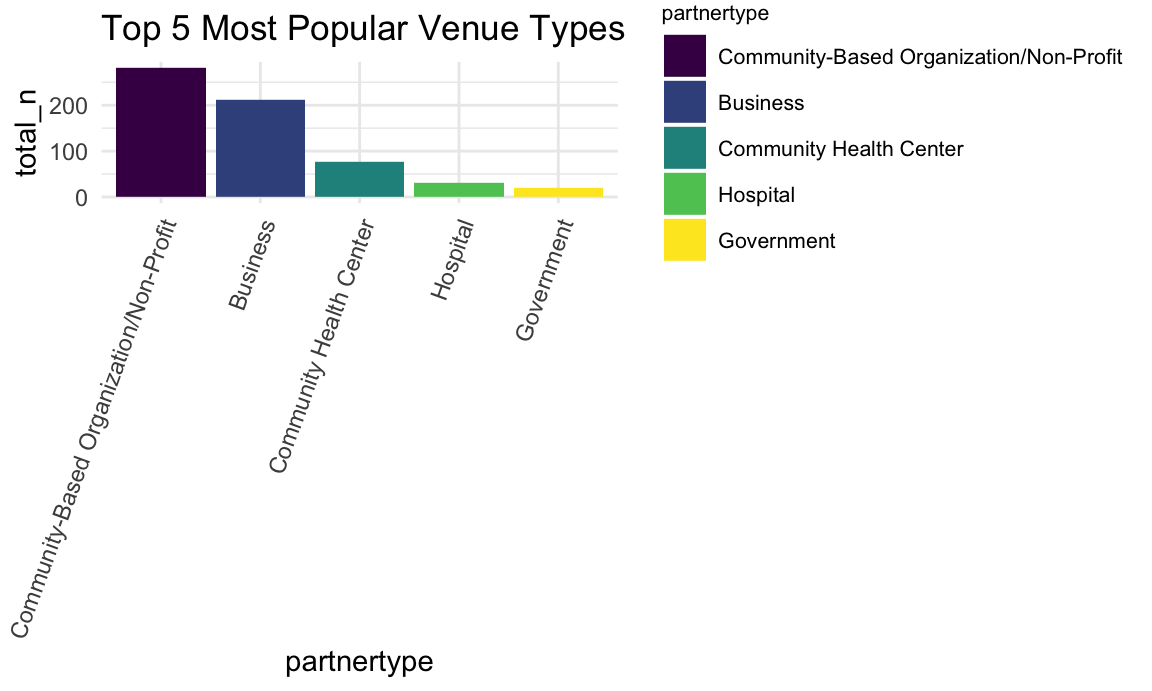
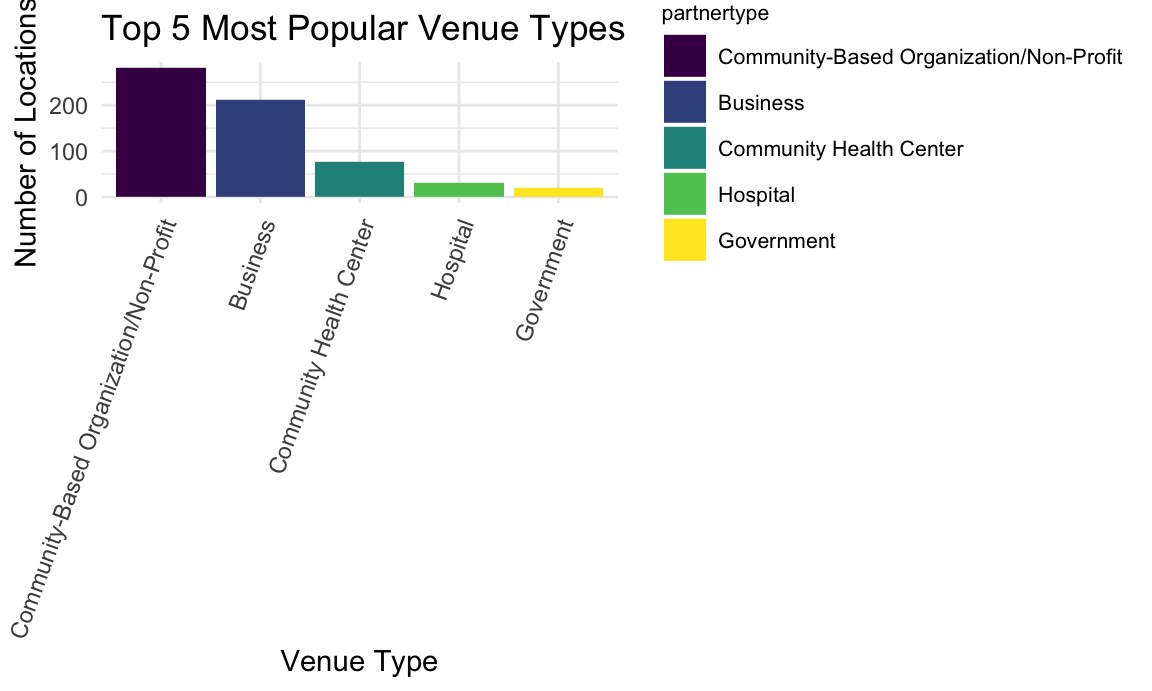
popular venue edits

Changed region(s): [[0.0, 0.0, 0.0312, 0.3951], [0.25, 0.9421, 0.375, 0.9725]]

diff --git a/popular_venues.html b/popular_venues.html
@@ -450,7 +450,9 @@ pop_venue %&gt;%
   theme(axis.text.x = element_text(angle = 70, hjust = 1),
         legend.title = element_text(size = 8),
         legend.text = element_text(size = 8)) +
-  labs(title = &quot;Top 5 Most Popular Venue Types&quot;)</code></pre>
+  labs(title = &quot;Top 5 Most Popular Venue Types&quot;,
+       x = &quot;Venue Type&quot;,
+       y = &quot;Number of Locations&quot;)</code></pre>
 <p><img src="popular_venues_files/figure-html/unnamed-chunk-3-1.png" width="90%" /></p>
 <p>Visually, we can see that there are many more Community-Based Organization/Non-Profit and Business venues that distribute condoms than any other venue type.</p>
 </div>
@@ -524,14 +526,16 @@ pop_subtype %&gt;%
   ggplot(aes(x = partner_subtype, y = total_n, fill = partner_subtype)) +
   geom_bar(stat = &quot;identity&quot;) +
   theme(axis.text.x = element_text(angle = 70, hjust = 1)) +
-  labs(title = &quot;Most Popular Venue Subtypes&quot;)</code></pre>
+  labs(title = &quot;Most Popular Venue Subtypes&quot;,
+       x = &quot;Venue Type&quot;,
+       y = &quot;Number of Locations&quot;)</code></pre>
 <p><img src="popular_venues_files/figure-html/unnamed-chunk-5-1.png" width="90%" /></p>
 <p>Visually, we can see that there are many more Bar/Lounge venues that distribute condoms than any other subtype of venue.</p>
 </div>
-<div id="top-venues-subtypes" class="section level2">
-<h2>Top Venues &amp; Subtypes</h2>
-<div id="community-based-organizationnon-profit" class="section level4">
-<h4><strong>Community-Based Organization/Non-Profit</strong></h4>
+<div id="top-venues-and-their-subtypes" class="section level2">
+<h2>Top Venues and their Subtypes</h2>
+<div id="community-based-organizationnon-profit" class="section level3">
+<h3>Community-Based Organization/Non-Profit</h3>
 <pre class="r"><code>cleaned_data %&gt;% 
   filter(partnertype == &quot;Community-Based Organization/Non-Profit&quot;) %&gt;% 
   group_by(partnertype, partner_subtype) %&gt;% 
@@ -546,13 +550,13 @@ pop_subtype %&gt;%
   geom_bar(stat = &quot;identity&quot;,  position = &quot;dodge&quot;) +
   labs(
     x = &quot;Venue Type&quot;,
-    y = &quot;# of Venues&quot;) + 
-  ggtitle(&quot;Distibutions of partner subtypes for CBO/Non-profits&quot;)</code></pre>
+    y = &quot;Number of Locations&quot;) + 
+  ggtitle(&quot;Number of Partner Subtypes for CBO/Non-profits&quot;)</code></pre>
 <p><img src="popular_venues_files/figure-html/unnamed-chunk-6-1.png" width="90%" /></p>
-<p>The top five community-based organizations/non-profits that offers free safer sex products are: others, social services, community centers, education, and housing.</p>
+<p>The top five Community-Based Organizations/Non-Profits that offer free safer sex products are Other, Social Service, Community Center, Education, and Housing locations.</p>
 </div>
-<div id="business" class="section level4">
-<h4><strong>Business</strong></h4>
+<div id="business" class="section level3">
+<h3>Business</h3>
 <pre class="r"><code>cleaned_data %&gt;% 
   filter(partnertype == &quot;Business&quot;) %&gt;%
   group_by(partnertype, partner_subtype) %&gt;% 
@@ -567,13 +571,13 @@ pop_subtype %&gt;%
   geom_bar(stat = &quot;identity&quot;,  position = &quot;dodge&quot;) +
   labs(
     x = &quot;Venue Type&quot;,
-    y = &quot;# of Venues&quot;) + 
-  ggtitle(&quot;Distibutions of partner subtypes for Businesses&quot;)</code></pre>
+    y = &quot;Number of Locations&quot;) + 
+  ggtitle(&quot;Number of Partner Subtypes for Businesses&quot;)</code></pre>
 <p><img src="popular_venues_files/figure-html/unnamed-chunk-7-1.png" width="90%" /></p>
-<p>The top 5 businesses that offers free safer sex products are bar/lounge, barbershop, beauty salons, night club, and retail stores.</p>
+<p>The top 5 Businesses that offer free safer sex products are Bar/Lounge, Barbershop, Beauty Salon, Night Club, and Retail Store locations.</p>
 </div>
-<div id="community-health-centers" class="section level4">
-<h4><strong>Community Health Centers</strong></h4>
+<div id="community-health-centers" class="section level3">
+<h3>Community Health Centers</h3>
 <pre class="r"><code>cleaned_data %&gt;% 
   filter(partnertype == &quot;Community Health Center&quot;) %&gt;% 
   group_by(partnertype, partner_subtype) %&gt;% 
@@ -586,10 +590,10 @@ pop_subtype %&gt;%
   geom_bar(stat = &quot;identity&quot;,  position = &quot;dodge&quot;) +
   labs(
     x = &quot;Venue Type&quot;,
-    y = &quot;# of Venues&quot;) + 
-  ggtitle(&quot;Distibutions of partner subtypes for Community Health Centers&quot;)</code></pre>
+    y = &quot;Number of of Locations&quot;) + 
+  ggtitle(&quot;Number of Partner Subtypes for Community Health Centers&quot;)</code></pre>
 <p><img src="popular_venues_files/figure-html/unnamed-chunk-8-1.png" width="90%" /></p>
-<p>There are only three community health center subtypes: others, clinical facility, and women’s center.</p>
+<p>There are only three Community Health Center venue subtypes: Other, Clinical Facility, and Women’s Center locations.</p>
 </div>
 </div>
 
